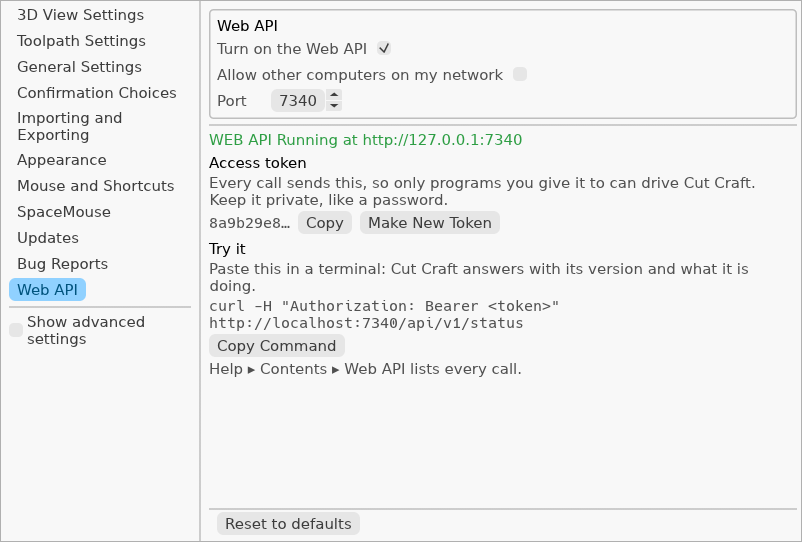
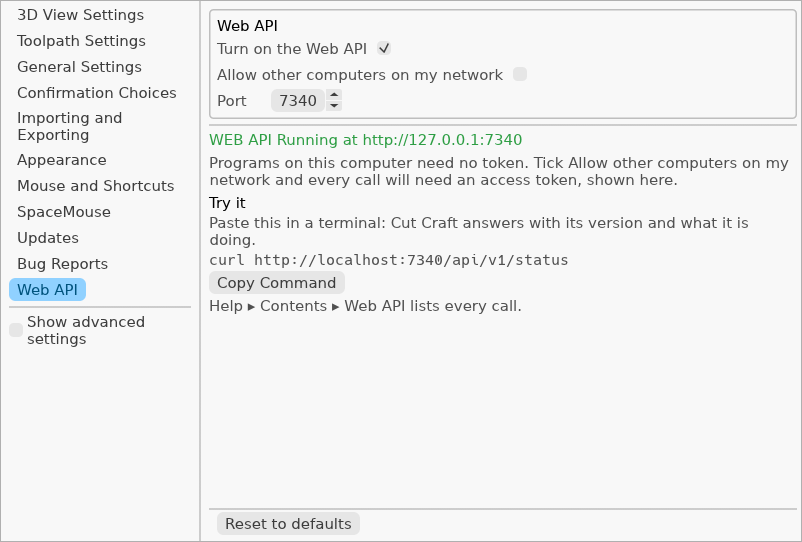
feat: Web API needs a token only when other computers are allowed
Matthew's choice: programs on this computer call without a token; with
"Allow other computers on my network" ticked, every call needs it. Web
pages still cannot drive it (localhost Host check, JSON-only POSTs).
Options shows the token and a token-carrying example only then; help and
its pictures say so, with a new picture of the network case.

Claude-Session: https://claude.ai/code/session_01Uqr4BLAuqFV26fpQoB4M9d

Changed region(s): [[0.2494, 0.2952, 0.9975, 0.7085]]

diff --git a/crates/app/src/app/web_api.rs b/crates/app/src/app/web_api.rs
@@ -320,9 +320,7 @@ impl CutCraftApp {
     /// What was pressed below Options ▸ Web API's settings, done.
     pub(super) fn web_api_pressed(&mut self, pressed: Pressed) {
         match pressed {
-            Pressed::Copied => self
-                .status
-                .set_message("Copied, with your Web API token in it"),
+            Pressed::Copied => self.status.set_message("Copied"),
             Pressed::NewToken => self.new_web_api_token(),
             Pressed::TryAgain => self.retry_web_api(),
         }
@@ -366,44 +364,51 @@ pub(super) fn options_section(
         }
     }
     let token = &settings.token;
-    if token.is_empty() {
-        return pressed;
-    }
+    let needs_token = settings.allow_network && !token.is_empty();
     ui.add_space(ui.spacing().item_spacing.y);
-    ui.strong("Access token");
-    ui.label(
-        "Every call sends this, so only programs you give it to can drive Cut Craft. Keep it \
-         private, like a password.",
-    );
-    ui.horizontal(|ui| {
-        ui.monospace(format!("{}…", token.chars().take(8).collect::<String>()));
-        if ui
-            .button("Copy")
-            .on_hover_hint("Copy the whole token, to paste into your script")
-            .clicked()
-        {
-            ui.ctx().copy_text(token.clone());
-            pressed = Some(Pressed::Copied);
-        }
-        if ui
-            .button("Make New Token")
-            .on_hover_hint(
-                "Stop the old token working, for example if someone you did not mean to have \
+    if needs_token {
+        ui.strong("Access token");
+        ui.label(
+            "Other computers can reach Cut Craft, so every call must send this. Give it only to \
+             programs you trust, and keep it private, like a password.",
+        );
+    } else {
+        ui.label(
+            "Programs on this computer need no token. Tick Allow other computers on my network \
+             and every call will need an access token, shown here.",
+        );
+    }
+    if needs_token {
+        ui.horizontal(|ui| {
+            ui.monospace(format!("{}…", token.chars().take(8).collect::<String>()));
+            if ui
+                .button("Copy")
+                .on_hover_hint("Copy the whole token, to paste into your script")
+                .clicked()
+            {
+                ui.ctx().copy_text(token.clone());
+                pressed = Some(Pressed::Copied);
+            }
+            if ui
+                .button("Make New Token")
+                .on_hover_hint(
+                    "Stop the old token working, for example if someone you did not mean to have \
                  it does",
-            )
-            .clicked()
-        {
-            pressed = Some(Pressed::NewToken);
-        }
-    });
+                )
+                .clicked()
+            {
+                pressed = Some(Pressed::NewToken);
+            }
+        });
+    }
     ui.add_space(ui.spacing().item_spacing.y);
     ui.strong("Try it");
     ui.label("Paste this in a terminal: Cut Craft answers with its version and what it is doing.");
-    let example = example_call(settings.port);
+    let example = example_call(settings.port, needs_token);
     ui.add(egui::Label::new(egui::RichText::new(&example).monospace()).wrap());
     if ui
         .button("Copy Command")
-        .on_hover_hint("Copy this command with your token in it, to paste in a terminal")
+        .on_hover_hint("Copy this command, to paste in a terminal")
         .clicked()
     {
         ui.ctx().copy_text(example.replace("<token>", token));
@@ -413,10 +418,15 @@ pub(super) fn options_section(
     pressed
 }
 
-/// A first call to try, with `<token>` where the token goes.
-pub(super) fn example_call(port: u16) -> String {
+/// A first call to try: with `<token>` where the token goes when calls need one.
+pub(super) fn example_call(port: u16, token: bool) -> String {
+    let auth = if token {
+        "-H \"Authorization: Bearer <token>\" "
+    } else {
+        ""
+    };
     format!(
-        "curl -H \"Authorization: Bearer <token>\" http://localhost:{port}{}status",
+        "curl {auth}http://localhost:{port}{}status",
         cut_craft_web_api::PREFIX
     )
 }

diff --git a/crates/app/src/app/web_api_tests.rs b/crates/app/src/app/web_api_tests.rs
@@ -29,16 +29,27 @@ fn call(
     path: &str,
     body: Option<Value>,
 ) -> (u16, Value) {
-    let token = h.app.options.web_api.token.clone();
+    let token = Some(h.app.options.web_api.token.clone());
+    call_with(h, at, token, method, path, body)
+}
+
+/// [`call`] sending `token`, or no token at all.
+fn call_with(
+    h: &mut Harness,
+    at: SocketAddr,
+    token: Option<String>,
+    method: &str,
+    path: &str,
+    body: Option<Value>,
+) -> (u16, Value) {
+    let auth = token.map_or_else(String::new, |t| format!("Authorization: Bearer {t}\r\n"));
     let body = body.map(|b| b.to_string());
     let path = format!("{}{path}", cut_craft_web_api::PREFIX);
     let method = method.to_owned();
     let client = std::thread::spawn(move || {
         let mut s = TcpStream::connect(at).unwrap();
-        let mut request = format!(
-            "{method} {path} HTTP/1.1\r\nHost: localhost\r\nAuthorization: Bearer {token}\r\n\
-             Connection: close\r\n"
-        );
+        let mut request =
+            format!("{method} {path} HTTP/1.1\r\nHost: localhost\r\n{auth}Connection: close\r\n");
         if let Some(body) = &body {
             let _ = write!(
                 request,
@@ -274,7 +285,33 @@ fn the_web_api_has_a_help_page_with_its_pictures_linked_from_contents() {
 #[test]
 fn the_example_call_is_the_status_call_on_the_chosen_port() {
     assert_eq!(
-        super::super::web_api::example_call(8123),
+        super::super::web_api::example_call(8123, false),
+        "curl http://localhost:8123/api/v1/status"
+    );
+    assert_eq!(
+        super::super::web_api::example_call(8123, true),
         "curl -H \"Authorization: Bearer <token>\" http://localhost:8123/api/v1/status"
     );
+}
+
+#[test]
+fn this_computer_needs_no_token_but_open_to_the_network_every_call_does() {
+    let (mut h, at) = switched_on();
+    let (status, _) = call_with(&mut h, at, None, "GET", "status", None);
+    assert_eq!(status, 200, "a program on this computer needs no token");
+    // other computers allowed: it listens on every network, and wants the token
+    h.app.options.web_api.allow_network = true;
+    h.app.options.web_api.port = at.port();
+    h.frame(vec![]);
+    let State::Running(open) = h.app.web_api_state().clone() else {
+        panic!("{:?}", h.app.web_api_state());
+    };
+    assert!(open.ip().is_unspecified(), "{open}");
+    let here = SocketAddr::from(([127, 0, 0, 1], open.port()));
+    let (status, e) = call_with(&mut h, here, None, "GET", "status", None);
+    assert_eq!(status, 401, "{e}");
+    let (status, _) = call_with(&mut h, here, Some("wrong".into()), "GET", "status", None);
+    assert_eq!(status, 401);
+    let (status, _) = call(&mut h, here, "GET", "status", None);
+    assert_eq!(status, 200);
 }

diff --git a/crates/app/src/options.rs b/crates/app/src/options.rs
@@ -1240,13 +1240,15 @@ impl Default for Updates {
 #[derive(Clone, Debug, PartialEq, Serialize, Deserialize, JsonSchema)]
 pub struct WebApi {
     /// Let programs on this computer drive Cut Craft: select vectors, run tools, press any
-    /// button. Every call needs the access token below. The status bar shows WEB API Running
-    /// in green while it is listening, or in red if it could not start and why
+    /// button. Calls from this computer need nothing more; other computers need the access
+    /// token. The status bar shows WEB API Running in green while it is listening, or in red if
+    /// it could not start and why
     #[serde(default)]
     #[schemars(title = "Turn on the Web API")]
     pub enabled: bool,
     /// Also answer other computers on your network, not only this one (listens on 0.0.0.0).
-    /// Calls travel unencrypted, so only use this on a home or workshop network you trust
+    /// Every call then needs the access token shown below. Calls travel unencrypted, so only
+    /// use this on a home or workshop network you trust
     #[serde(default)]
     #[schemars(title = "Allow other computers on my network")]
     pub allow_network: bool,
@@ -1255,7 +1257,8 @@ pub struct WebApi {
     #[serde(default = "web_api_port")]
     #[schemars(title = "Port", range(min = 1024, max = 65535))]
     pub port: u16,
-    /// The access token every call must send; made the first time the Web API is switched on.
+    /// The access token calls must send while other computers are allowed; made the first
+    /// time the Web API is switched on.
     #[serde(default, skip_serializing_if = "String::is_empty")]
     #[schemars(skip)]
     pub token: String,
@@ -1282,7 +1285,8 @@ impl WebApi {
         self.enabled.then(|| cut_craft_web_api::Settings {
             allow_network: self.allow_network,
             port: self.port,
-            token: Some(self.token.clone()),
+            // this computer's own programs need no token; open to the network, every call does
+            token: self.allow_network.then(|| self.token.clone()),
         })
     }
 }

diff --git a/crates/app/src/app/help.rs b/crates/app/src/app/help.rs
@@ -17,6 +17,10 @@ pub(super) const PICTURES: &[(&str, &[u8])] = &[
         include_bytes!("../../help/pictures/web-api-options.png"),
     ),
     (
+        "web-api-network.png",
+        include_bytes!("../../help/pictures/web-api-network.png"),
+    ),
+    (
         "web-api-running.png",
         include_bytes!("../../help/pictures/web-api-running.png"),
     ),

diff --git a/crates/app/help/web-api.md b/crates/app/help/web-api.md
@@ -14,15 +14,24 @@ saves files for your machine, it does not drive it.
 
 1. Open **Edit ▸ Options ▸ Web API**.
 2. Tick **Turn on the Web API**.
-3. Press **Copy** beside the access token, and give it to the program that will call
-   Cut Craft. Every call must send it.
 
-![The Web API page in Options, switched on, with the token and a command to try](bytes://help/web-api-options.png)
+That is all for programs on this computer: they need no password.
 
-- **Allow other computers on my network** also answers other computers, not only this one.
-  Calls are not encrypted, so only use it on a home or workshop network you trust. On
-  Windows, the first time, Windows asks whether to let Cut Craft through its firewall: allow
-  it on private networks only.
+![The Web API page in Options, switched on, with a command to try](bytes://help/web-api-options.png)
+
+## Letting other computers in
+
+Tick **Allow other computers on my network** to let another computer (a workshop PC, a
+laptop) drive Cut Craft. Then every call, from any computer, must send the **access token**:
+
+1. Press **Copy** beside the access token.
+2. Give it to the program that will call Cut Craft, on the other computer.
+
+![The Web API page with other computers allowed, showing the access token](bytes://help/web-api-network.png)
+
+- Calls are not encrypted, so only allow other computers on a home or workshop network you
+  trust. On Windows, the first time, Windows asks whether to let Cut Craft through its
+  firewall: allow it on private networks only.
 - **Port** is the number programs call, as in `http://localhost:7340`. Pick another if a
   different program already uses it.
 - **Make New Token** stops the old token working, for example if someone you did not mean
@@ -43,14 +52,15 @@ fix that (most often by picking another port), then press **Try Again** in Optio
 
 ## Trying it
 
-**Copy Command** under **Try it** copies a command, with your token in it, to paste in a
-terminal (on Windows, in PowerShell use `curl.exe`). Cut Craft answers with its version and
+**Copy Command** under **Try it** copies a command (with your token in it, when other
+computers are allowed) to paste in a terminal (on Windows, in PowerShell use `curl.exe`). Cut Craft answers with its version and
 what it is doing.
 
 ## The calls
 
-Every call starts `http://localhost:7340/api/v1/` and sends the header
-`Authorization: Bearer <token>`. Calls that send settings use POST with
+Every call starts `http://localhost:7340/api/v1/` (from another computer, this computer's
+address in place of `localhost`). While other computers are allowed, every call also sends
+the header `Authorization: Bearer <token>`. Calls that send settings use POST with
 `Content-Type: application/json`. Lengths are in the job's units unless a call says
 `"units": "mm"` or `"in"`.
 
